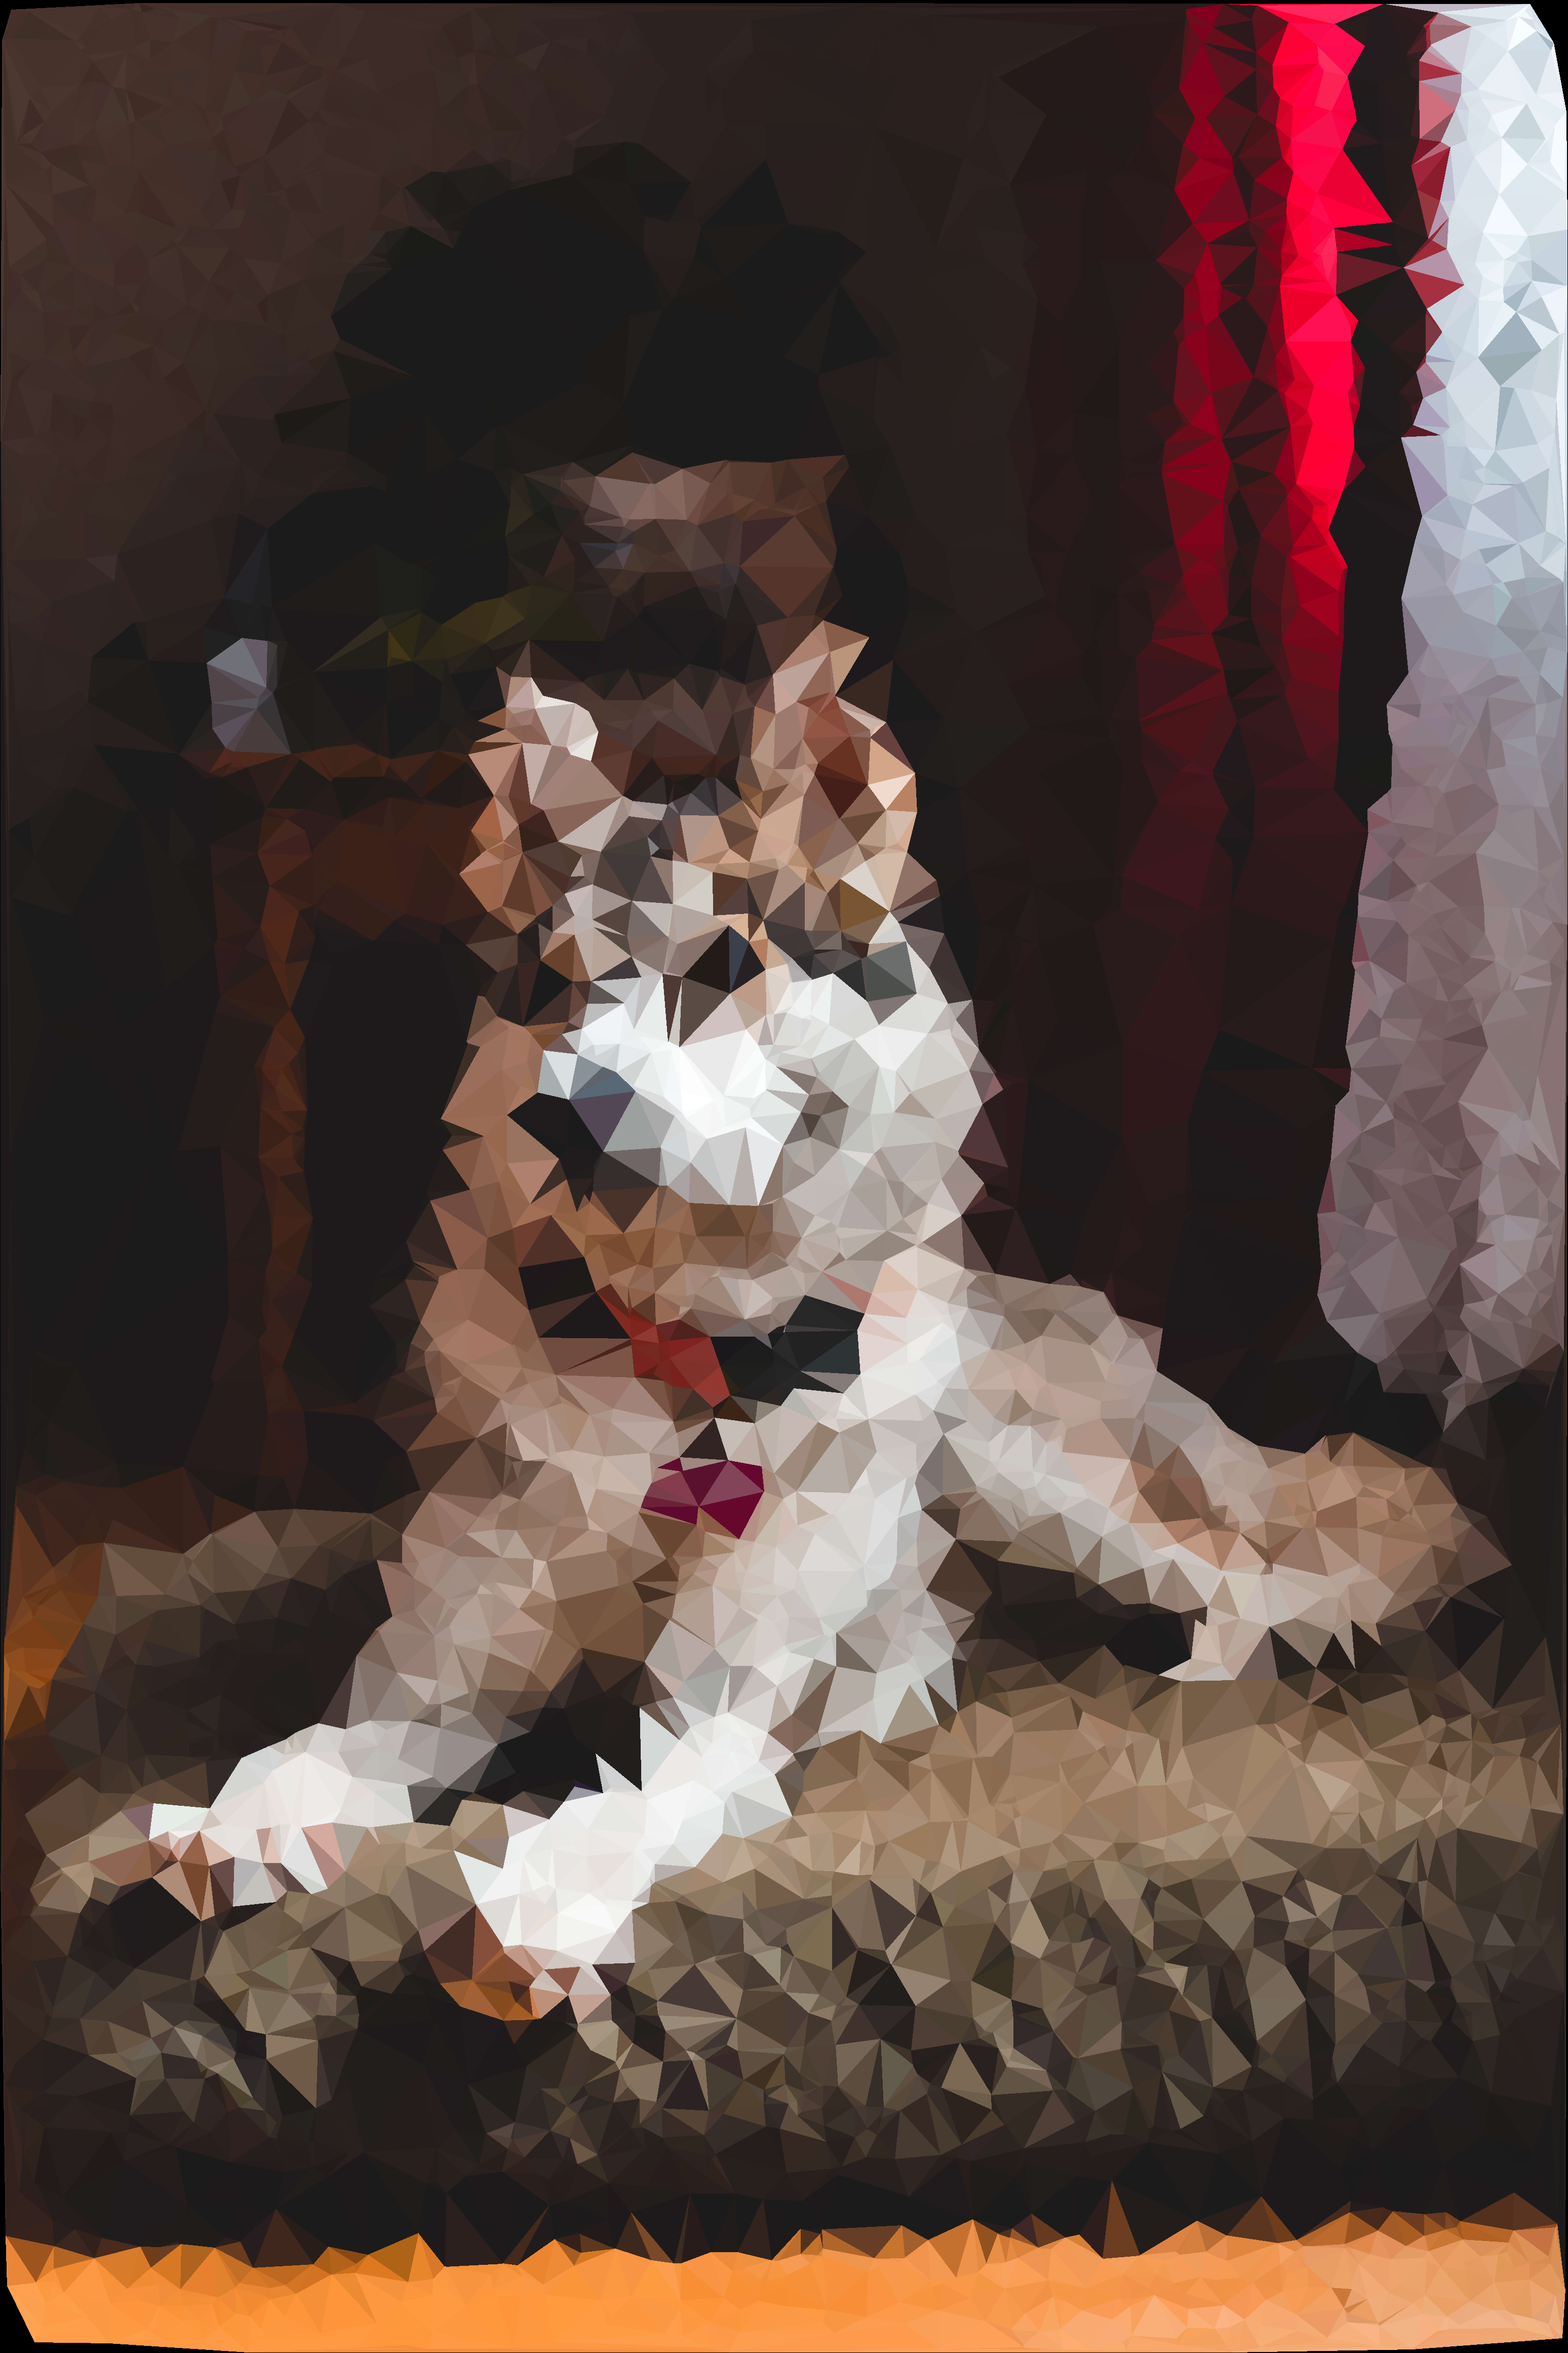
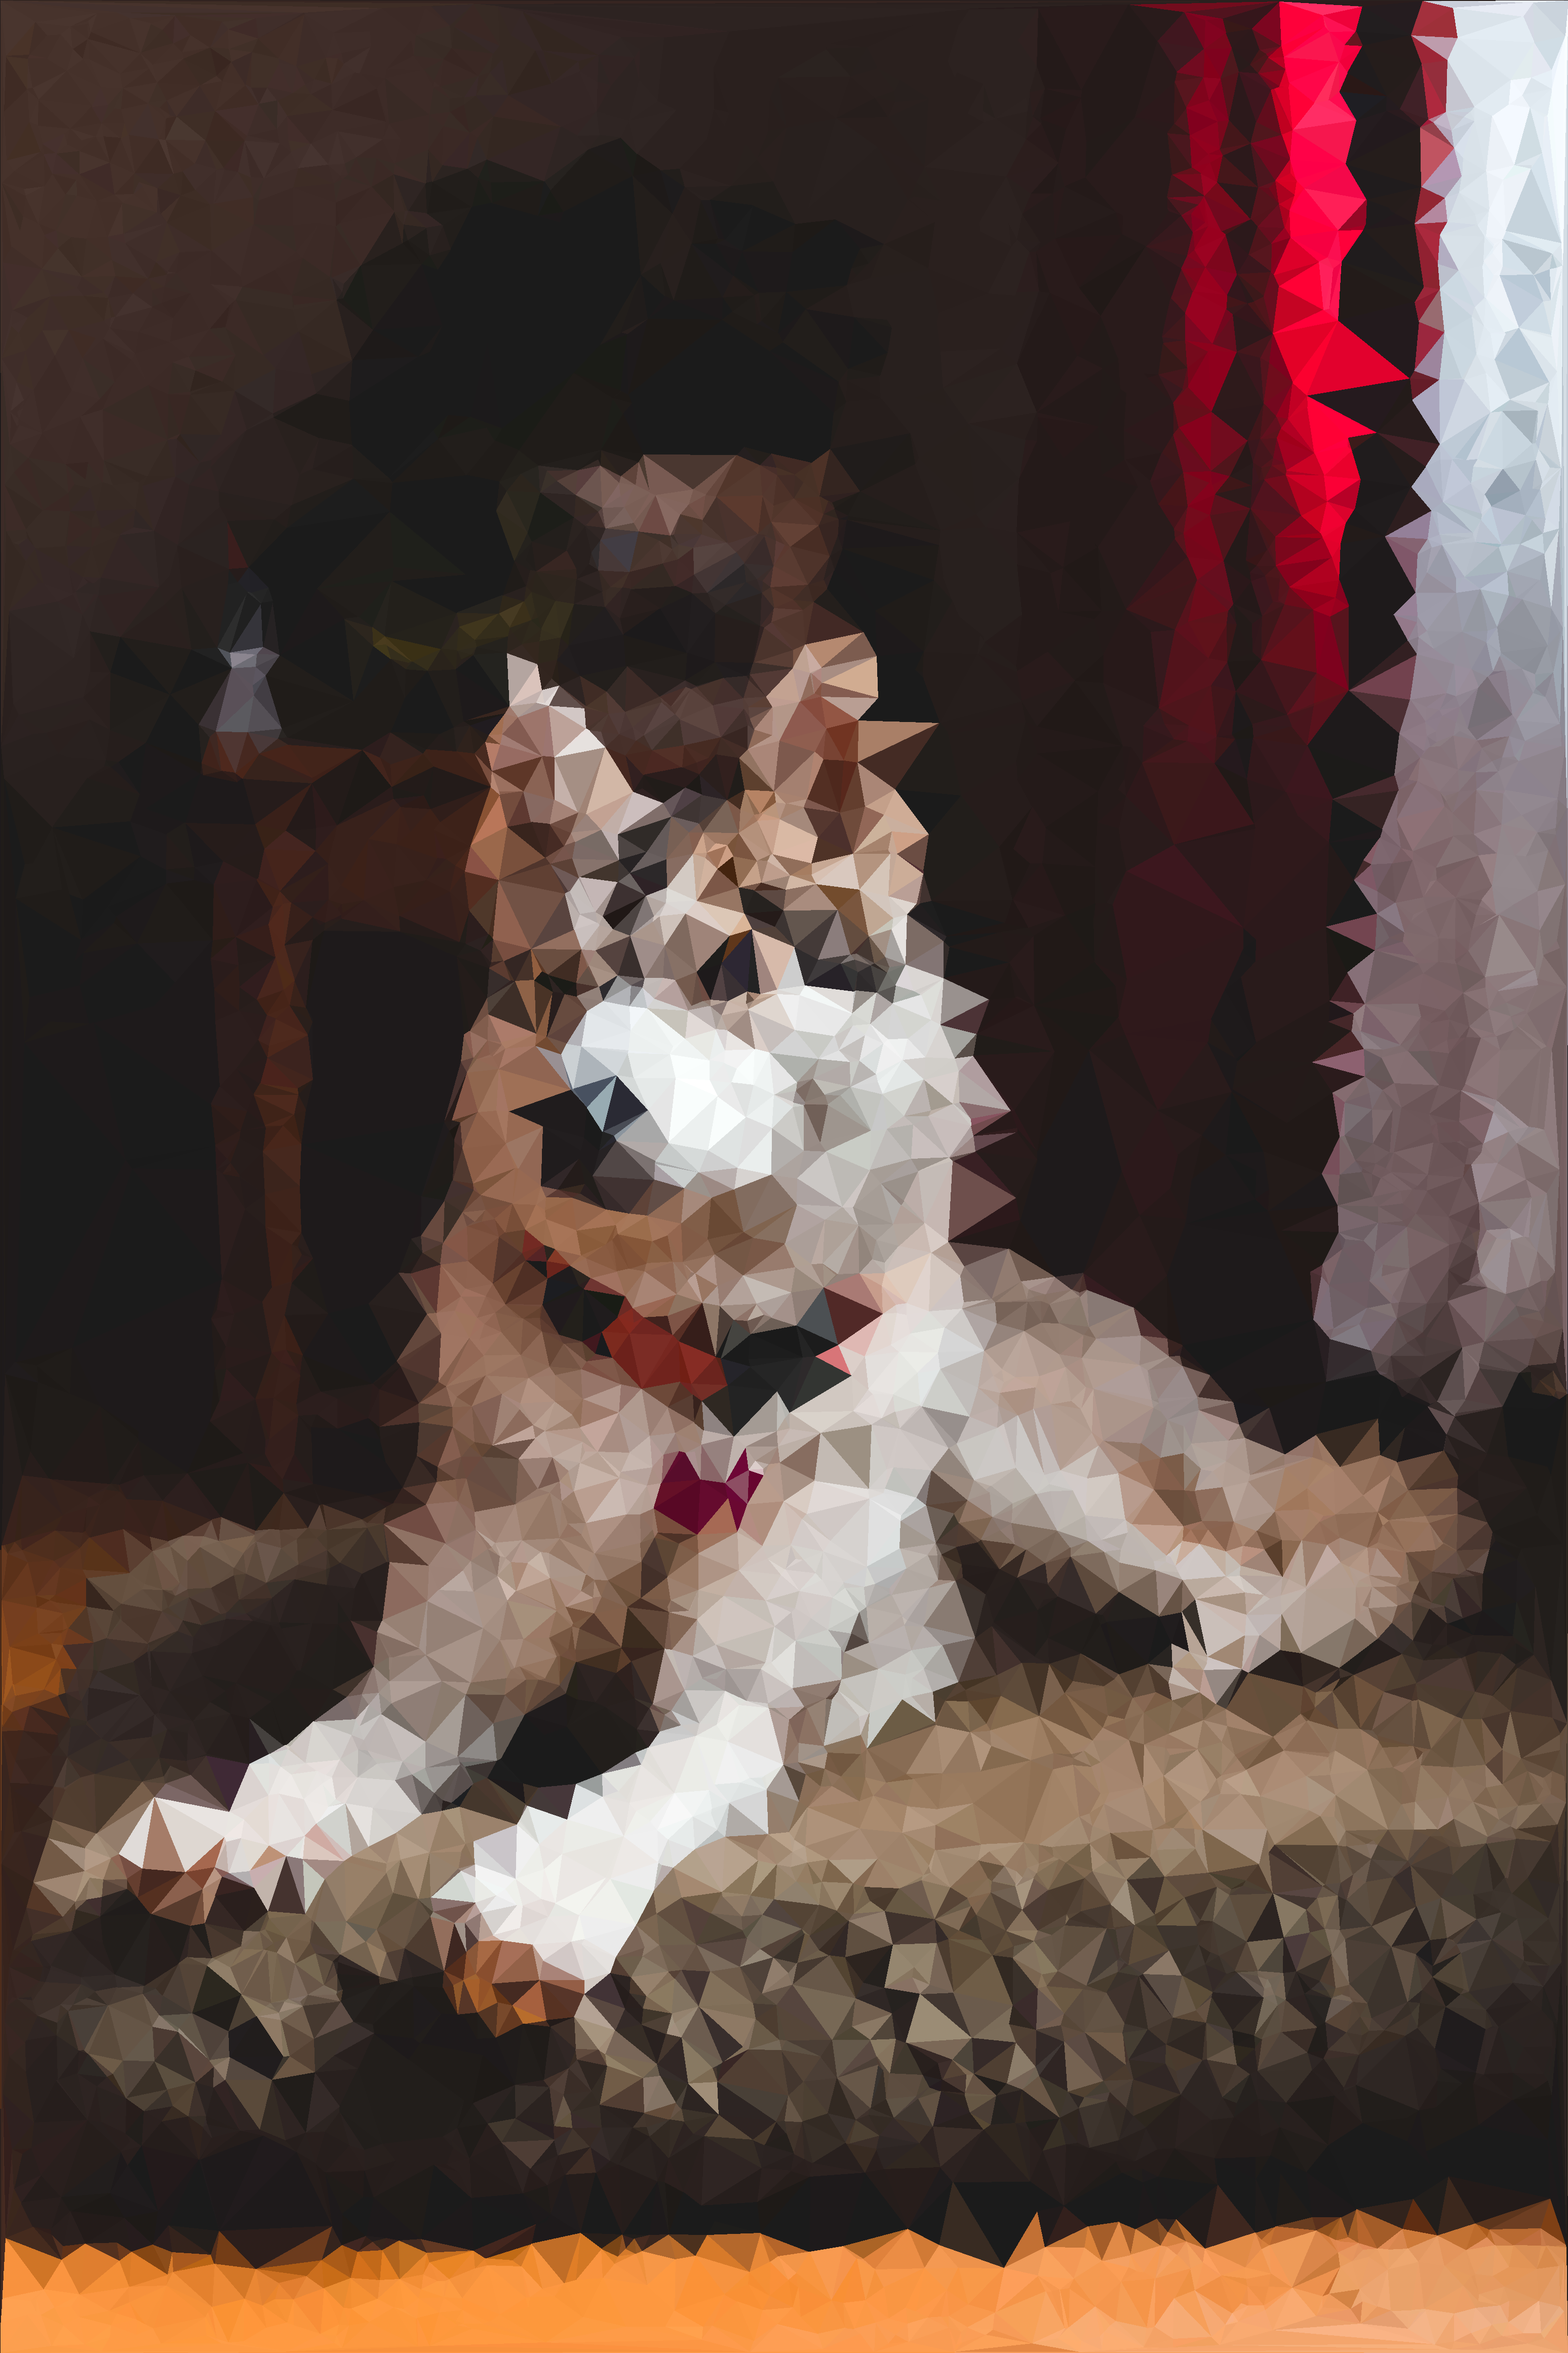
Small updating to force corner draws for now...

diff --git a/src/triangulation.rs b/src/triangulation.rs
@@ -13,9 +13,6 @@ use rand::seq::IteratorRandom;
 /// A [`TriangulationConfig`] are the parameters that will affect the triangulation
 /// algorithm's output.
 pub struct TriangulationConfig {
-    /// The percentage of vertices / total pixel count we want in our output.
-    pub rate: f32,
-
     /// The maximum number of vertices we want.
     pub max_vertices: u32,
 
@@ -54,7 +51,6 @@ pub fn triangulate_image(image: &DynamicImage, config: &TriangulationConfig) -> 
     // Next, node detection.
     let node_list = node_detection(
         preprocessed_image,
-        config.rate,
         config.max_vertices,
         config.edge_threshold,
     );
@@ -88,14 +84,11 @@ pub fn preprocess_image(
 /// Detects nodes in a pre-processed image.
 pub fn node_detection(
     preprocessed_image: PreprocessedImage,
-    rate: f32,
     max_vertices: u32,
     edge_threshold: f64,
 ) -> NodeList {
     let mut rng = rand::thread_rng();
     let (width, height) = preprocessed_image.0.dimensions();
-    let max_nodes =
-        std::cmp::min(max_vertices, (rate * width as f32 * height as f32) as u32) as usize;
 
     let mut node_list: Vec<delaunator::Point> = vec![];
 
@@ -121,7 +114,23 @@ pub fn node_detection(
         }
     }
 
-    let node_list = node_list.into_iter().choose_multiple(&mut rng, max_nodes);
+    let mut node_list = node_list
+        .into_iter()
+        .choose_multiple(&mut rng, max_vertices as usize - 4);
+
+    node_list.push(delaunator::Point { x: 0.0, y: 0.0 });
+    node_list.push(delaunator::Point {
+        x: 0.0,
+        y: height as f64,
+    });
+    node_list.push(delaunator::Point {
+        x: width as f64,
+        y: 0.0,
+    });
+    node_list.push(delaunator::Point {
+        x: width as f64,
+        y: height as f64,
+    });
 
     NodeList(node_list)
 }

diff --git a/examples/simple_test/src/main.rs b/examples/simple_test/src/main.rs
@@ -1,7 +1,28 @@
+use std::time::Instant;
+
 fn main() {
+    println!("Starting...");
+
+    let start = Instant::now();
     triangulate_image("./erik-mclean.jpg", "./doggo.png");
+    println!(
+        "Image 1 took {} seconds",
+        Instant::now().duration_since(start).as_secs()
+    );
+
+    let start = Instant::now();
     triangulate_image("./siyuan.jpg", "./mountains.png");
+    println!(
+        "Image 2 took {} seconds",
+        Instant::now().duration_since(start).as_secs()
+    );
+
+    let start = Instant::now();
     triangulate_image("./anton-lecock.jpg", "./rocks.png");
+    println!(
+        "Image 3 took {} seconds",
+        Instant::now().duration_since(start).as_secs()
+    );
 }
 
 fn triangulate_image(load: &str, save: &str) {
@@ -9,8 +30,7 @@ fn triangulate_image(load: &str, save: &str) {
     let trig = polify::triangulate_image(
         &loaded,
         &polify::TriangulationConfig {
-            rate: 0.05,
-            max_vertices: 4000,
+            max_vertices: 5000,
             edge_threshold: 20.0,
             low_threshold: 0.05,
             high_threshold: 5.0,
